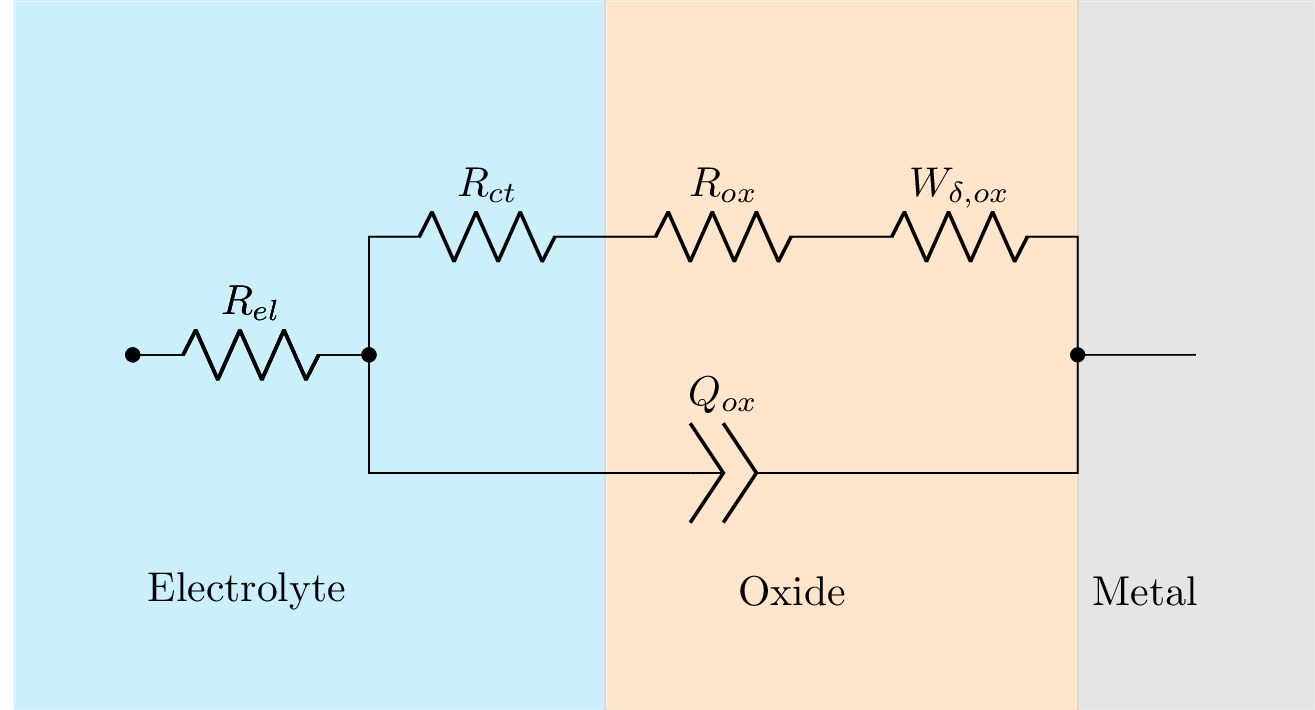
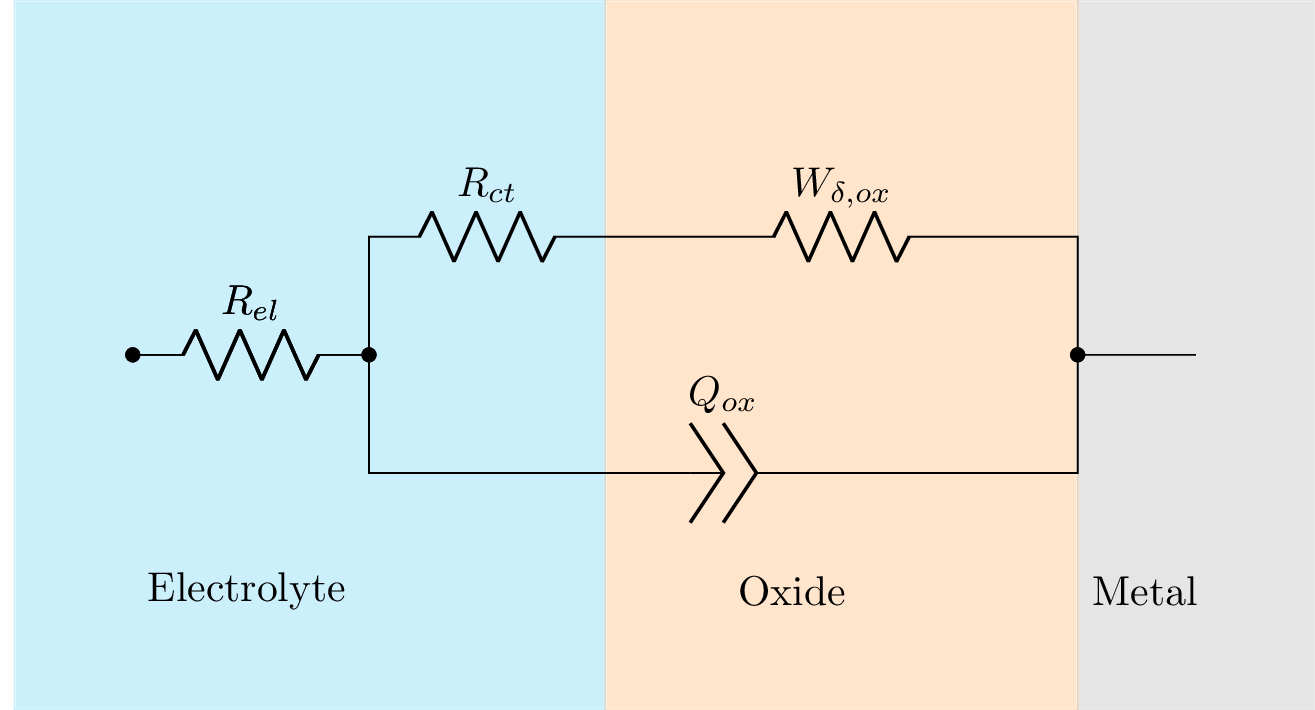
[3-Resource/figures] Update figures.

Changed region(s): [[0.4989, 0.2169, 0.7795, 0.3718]]

diff --git a/3-Resource/figures/src/EIS-circuit-randles-flw.tex b/3-Resource/figures/src/EIS-circuit-randles-flw.tex
@@ -7,7 +7,7 @@
 \node[right]  at (5,-2) {Oxide};
 \filldraw[fill=gray, opacity=0.2, draw=gray] (8,-3) rectangle (10,3);
 \node[right]  at (8,-2) {Metal};
-\draw (0,0) to[R=$R_{el}$, *-*] (2,0)--++(0,1) to [R=$R_{ct}$] ++(2,0) to [R=$R_{ox}$] ++(2,0) to [R=$W_{\delta,ox}$] ++(2,0) --++(0,-1) --++(1,0);
+\draw (0,0) to[R=$R_{el}$, *-*] (2,0)--++(0,1) to [R=$R_{ct}$] ++(2,0) to [R=$W_{\delta,ox}$] ++(4,0) to [short, -*] ++(0,-1) --++(1,0);
 \draw (0,0) to[R=$R_{el}$, *-*] (2,0)--++(0,-1) to [cpe=$Q_{ox}$] ++(6,0) to [short, -*] ++(0,1);
 \end{circuitikz}
 

diff --git a/3-Resource/figures/src/EIS-circuit-randles-w.tex b/3-Resource/figures/src/EIS-circuit-randles-w.tex
@@ -7,7 +7,7 @@
 \node[right]  at (5,-2) {Oxide};
 \filldraw[fill=gray, opacity=0.2, draw=gray] (8,-3) rectangle (10,3);
 \node[right]  at (8,-2) {Metal};
-\draw (0,0) to[R=$R_{el}$, *-*] (2,0)--++(0,1) to [R=$R_{ct}$] ++(2,0) to [R=$R_{ox}$] ++(2,0) to [R=$W_{ox}$] ++(2,0) --++(0,-1) --++(1,0);
+\draw (0,0) to[R=$R_{el}$, *-*] (2,0)--++(0,1) to [R=$R_{ct}$] ++(2,0) to [R=$W_{ox}$] ++(4,0) to [short, -*] ++(0,-1) --++(1,0);
 \draw (0,0) to[R=$R_{el}$, *-*] (2,0)--++(0,-1) to [cpe=$Q_{ox}$] ++(6,0) to [short, -*] ++(0,1);
 \end{circuitikz}
 
